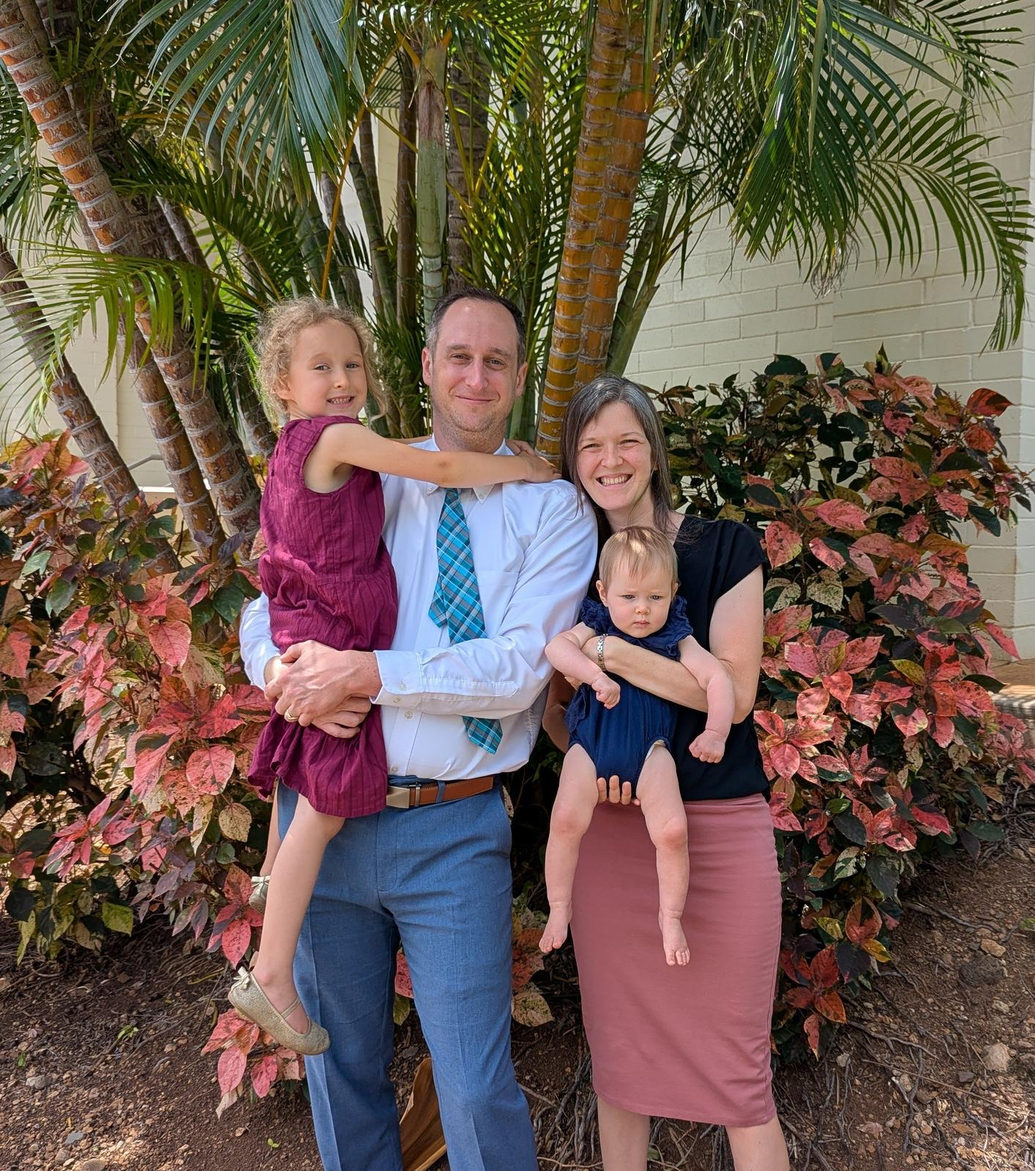
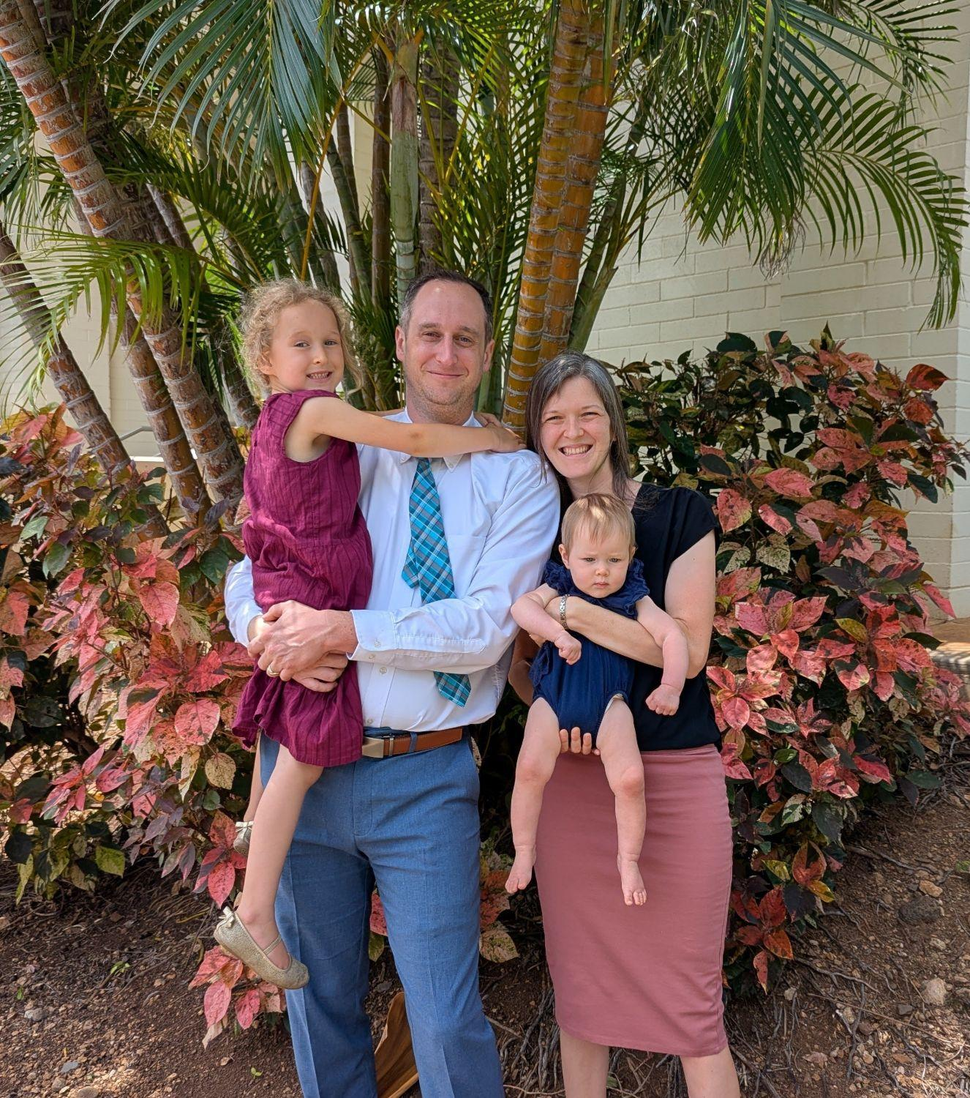
Update family photo sitewide and fix About page head-crop
Replace family-photo.jpg with a new photo that includes the whole
family without cropping. Also swap the About page's solo headshot
(which cropped Dr. Gabe's head) for the family photo, matching every
other page. Update width/height attributes to the new photo's actual
dimensions.

diff --git a/innovative-approach-hormones/index.html b/innovative-approach-hormones/index.html
@@ -156,7 +156,7 @@
         <p style="font-weight:600;color:var(--brand-deep);">&#9989; Goal: Create lasting hormone balance so you can feel your best every day.</p>
       </div>
       <div class="split__media reveal" data-delay="1">
-        <img src="../assets/images/family-photo.jpg" width="2356" height="2666" alt="Dr. Gabe Ariciu, DC, with his family" loading="lazy">
+        <img src="../assets/images/family-photo.jpg" width="1326" height="1500" alt="Dr. Gabe Ariciu, DC, with his family" loading="lazy">
       </div>
     </div>
     <div class="card reveal" data-delay="2" style="max-width:640px;margin:3rem auto 0;">

diff --git a/innovative-approach-fm/index.html b/innovative-approach-fm/index.html
@@ -153,7 +153,7 @@
         <p style="font-weight:600;color:var(--brand-deep);">&#9989; Goal: Build lasting health so you can feel your best every day.</p>
       </div>
       <div class="split__media reveal" data-delay="1">
-        <img src="../assets/images/family-photo.jpg" width="2356" height="2666" alt="Dr. Gabe Ariciu, DC, with his family" loading="lazy">
+        <img src="../assets/images/family-photo.jpg" width="1326" height="1500" alt="Dr. Gabe Ariciu, DC, with his family" loading="lazy">
       </div>
     </div>
     <div class="card reveal" data-delay="2" style="max-width:640px;margin:3rem auto 0;">

diff --git a/about/index.html b/about/index.html
@@ -92,7 +92,7 @@
   <div class="wrap">
     <div class="split">
       <div class="split__media reveal">
-        <img src="../assets/uploads/drariciu.com/wp-content/uploads/2025/10/PXL_20250803_165441121.MP_-771x1024.jpg" width="771" height="1024" alt="Dr. Gabe Ariciu, DC" loading="lazy">
+        <img src="../assets/images/family-photo.jpg" width="1326" height="1500" alt="Dr. Gabe Ariciu, DC, with his wife Nancyann and daughters Grace and Esther" loading="lazy">
       </div>
       <div class="reveal" data-delay="1">
         <p class="eyebrow">Meet the Family</p>

diff --git a/innovative-approach-sibo/index.html b/innovative-approach-sibo/index.html
@@ -147,7 +147,7 @@
   <div class="wrap">
     <div class="split">
       <div class="split__media reveal">
-        <img src="../assets/images/family-photo.jpg" width="2356" height="2666" alt="Dr. Gabe Ariciu, DC, with his family" loading="lazy">
+        <img src="../assets/images/family-photo.jpg" width="1326" height="1500" alt="Dr. Gabe Ariciu, DC, with his family" loading="lazy">
       </div>
       <div class="reveal" data-delay="1">
         <h3 style="font-size:var(--fs-h3);">3. Stabilize&#128077;</h3>

diff --git a/innovative-approach-thyroid/index.html b/innovative-approach-thyroid/index.html
@@ -166,7 +166,7 @@
         </div>
       </div>
       <div class="split__media reveal" data-delay="1">
-        <img src="../assets/images/family-photo.jpg" width="2356" height="2666" alt="Dr. Gabe Ariciu, DC, with his family" loading="lazy">
+        <img src="../assets/images/family-photo.jpg" width="1326" height="1500" alt="Dr. Gabe Ariciu, DC, with his family" loading="lazy">
       </div>
     </div>
   </div>
